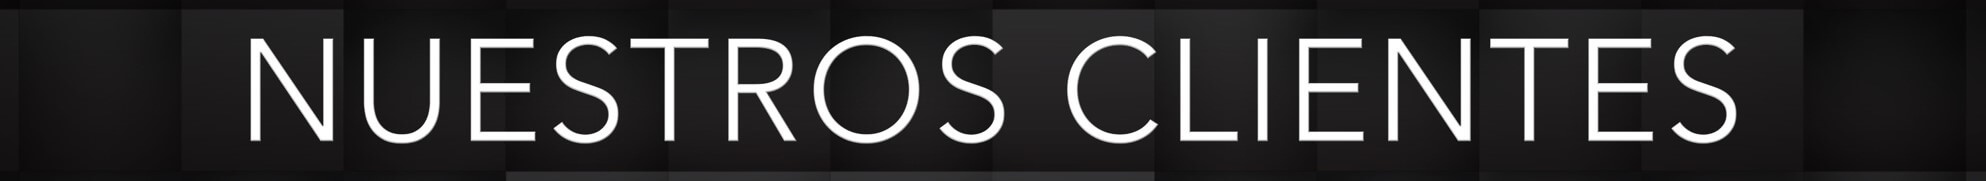
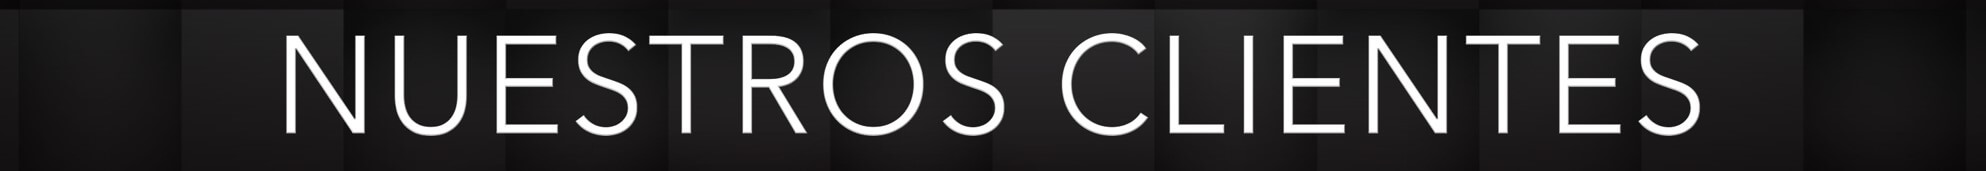
update

Changed region(s): [[0.1249, 0.1754, 0.4995, 0.8187], [0.5307, 0.1754, 0.8741, 0.7895], [0.2497, 0.9357, 0.5932, 1.0]]

diff --git a/index.html b/index.html
@@ -424,7 +424,7 @@
             background-attachment: fixed;
             background-size: 100% auto;" class="ln-section d-lg-flex fullscreen-lg" data-anchor="home" data-tooltip="Home" data-overlay-color="#00050e" data-overlay-opacity="50">
 
-            <img class="resolution-div-tittle" src="img/tittles/div-tittle-clientes.jpg"></img>
+            <img class="resolution-div-tittle" src="img/tittles/div-tittle-socios.jpg"></img>
 
               <div class="container align-self-xl-center" style="margin-top: 15px;">
 
@@ -537,7 +537,7 @@
                          <source src="src/dvr-3.mp4" type="video/mp4">
                            Su navegador no soporta el formato del video.
                        </video>
-                       <p class="col-mds-8">PERSONALIZACION</P>
+                       <p class="col-mds-8">PERSONALIZACIÓN</P>
                      </article>
                     </li>
                   </ul>

diff --git a/css/responsive.css b/css/responsive.css
@@ -592,10 +592,10 @@
     padding-right: 0px;
     padding-left: 0px;
     padding-top: 10px;
-    font-size: 22px;
-    font-family: "FF Market";
+    font-size: 36px;
+    font-family: "BebasNeueBook";
     text-align: center;
-    color: #fff;
+    color: #F47C29;
   }
 }
 
@@ -605,7 +605,8 @@
     padding-right: 0px;
     padding-left: 0px;
     padding-top: 0px;
-    font-size: 22px;
+    font-size: 32px;
+    font-family: "BebasNeueBook";
     text-align: center;
     color: #F47C29;
 }
